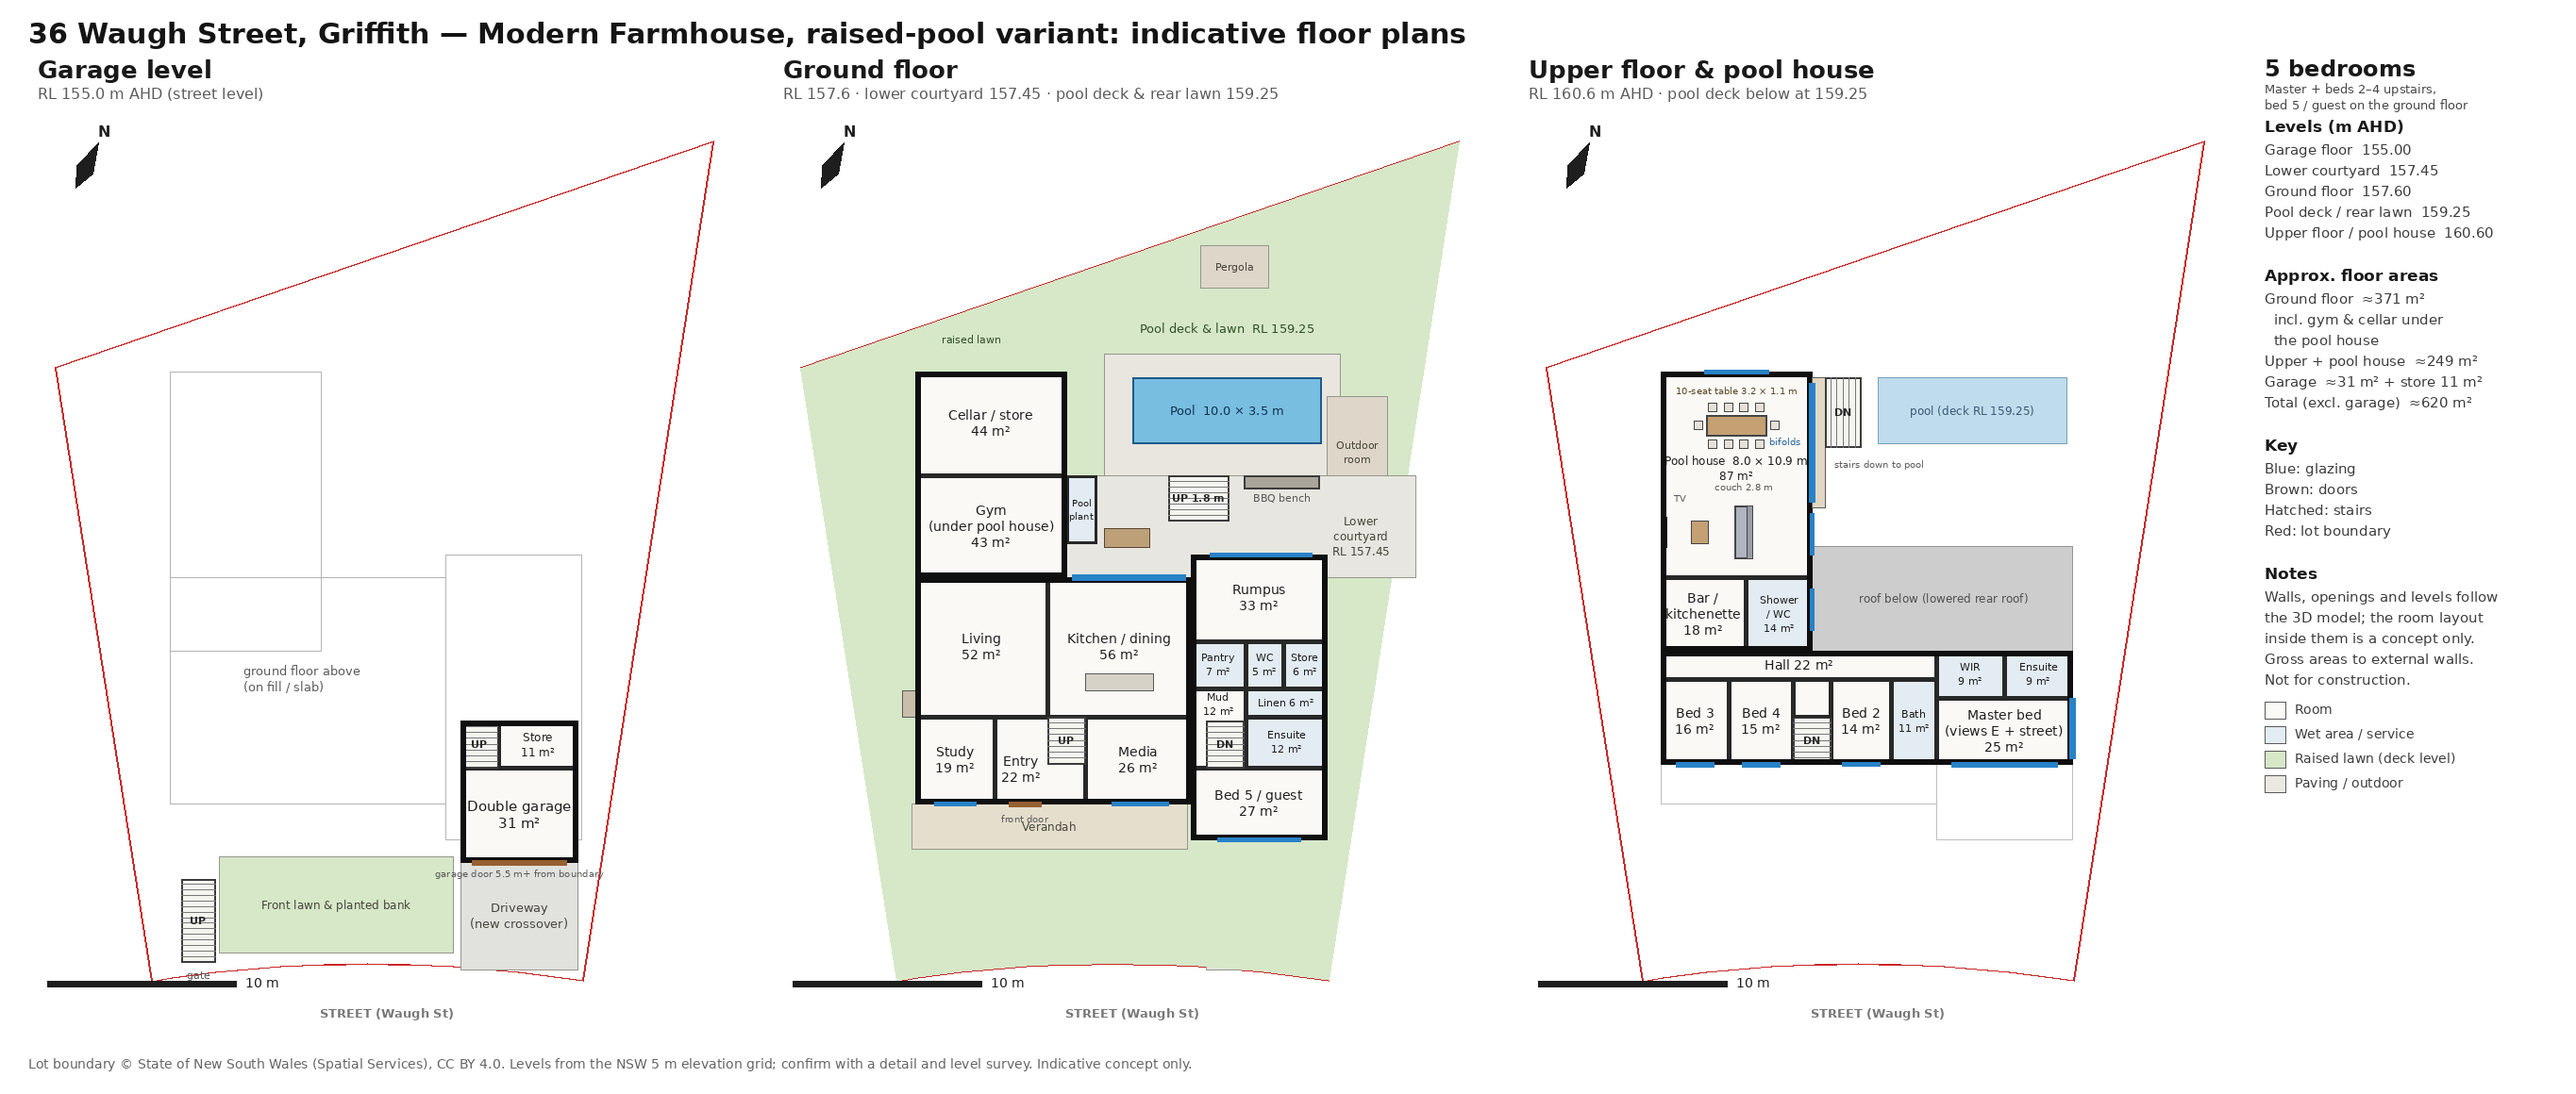
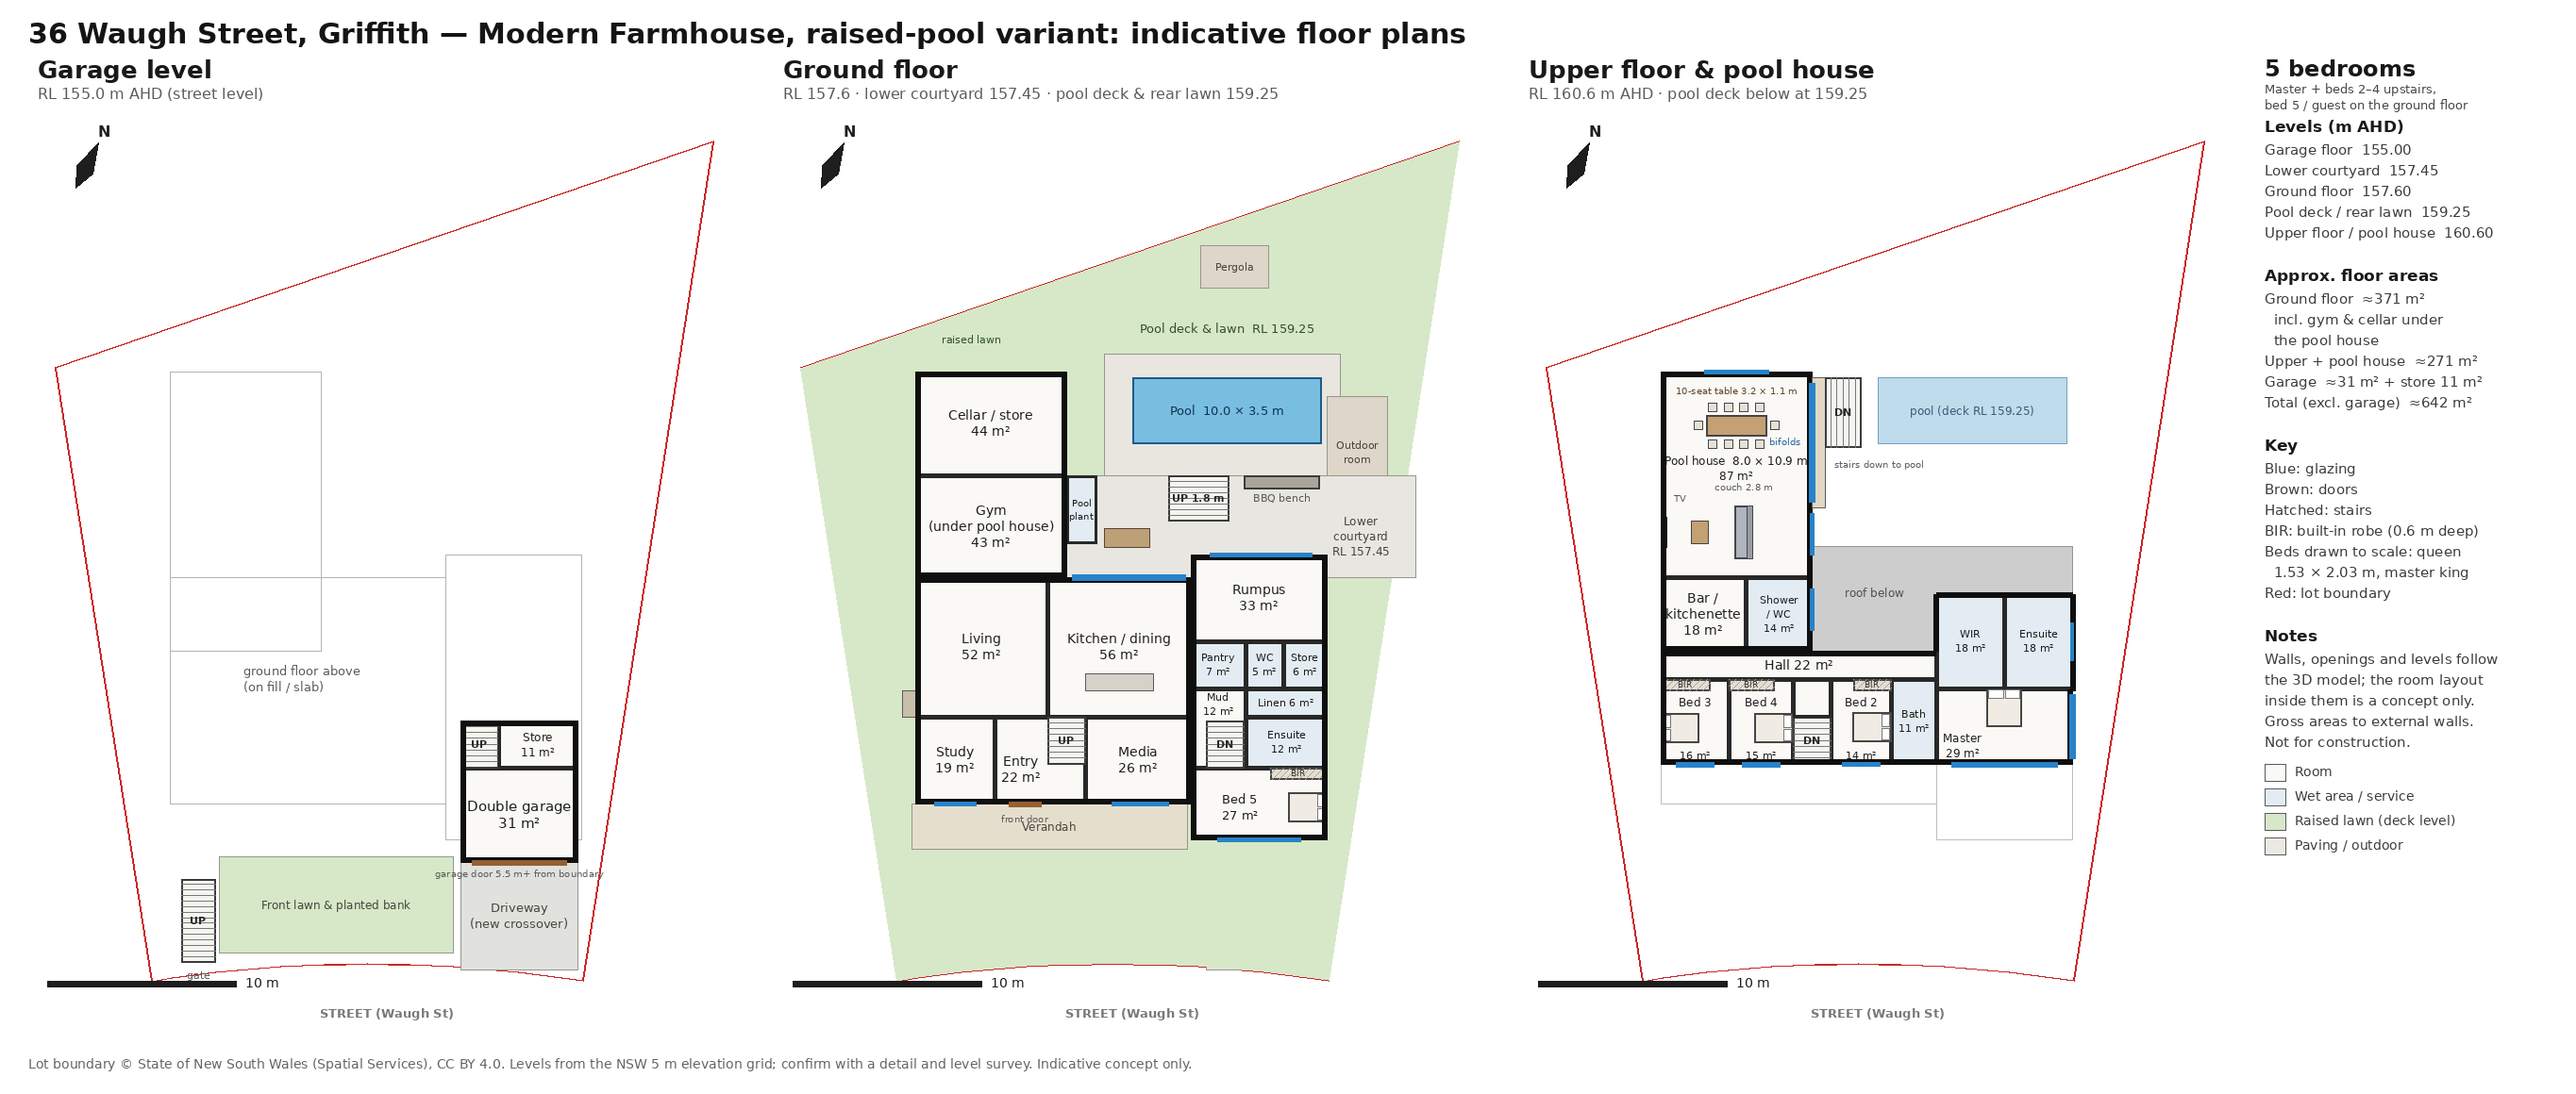
Floor plan: built-in robes and queen beds in bedrooms 2-5, master suite extended over the rear roof
Claude-Session: https://claude.ai/code/session_01GUPeuPKnNRhW4xExajB55M

diff --git a/scripts/designs/farmhouse_raised_plan.py b/scripts/designs/farmhouse_raised_plan.py
@@ -94,6 +94,31 @@ class Panel:
         self.d.text(self.p(u, n), txt, font=F(size), fill=fill, anchor="mm")
 
 
+def bed(pn, u0, u1, n0, n1, head):
+    """bed outline with pillows at the head end ('u0', 'u1', 'n0', 'n1')"""
+    pn.rect(u0, u1, n0, n1, (240, 236, 228), (70, 70, 70), 2)
+    if head in ("u0", "u1"):
+        a, b = (u0 + 0.08, u0 + 0.5) if head == "u0" else (u1 - 0.5, u1 - 0.08)
+        m = (n0 + n1) / 2
+        pn.rect(a, b, n0 + 0.1, m - 0.05, (255, 255, 255), (120, 120, 120), 1)
+        pn.rect(a, b, m + 0.05, n1 - 0.1, (255, 255, 255), (120, 120, 120), 1)
+    else:
+        a, b = (n0 + 0.08, n0 + 0.5) if head == "n0" else (n1 - 0.5, n1 - 0.08)
+        m = (u0 + u1) / 2
+        pn.rect(u0 + 0.1, m - 0.05, a, b, (255, 255, 255), (120, 120, 120), 1)
+        pn.rect(m + 0.05, u1 - 0.1, a, b, (255, 255, 255), (120, 120, 120), 1)
+
+
+def robe(pn, u0, u1, n0, n1):
+    """built-in robe: hatched 0.6 m deep joinery"""
+    pn.rect(u0, u1, n0, n1, (228, 222, 210), (70, 70, 70), 2)
+    a, b = pn.p(u0, n1), pn.p(u1, n0)
+    for x in range(int(a[0]), int(b[0]) + int(b[1] - a[1]), 7):
+        pn.d.line([(max(a[0], x - (b[1] - a[1])), min(b[1], a[1] + x - a[0])), (min(x, b[0]), a[1] + max(0, x - b[0]))],
+                  fill=(170, 160, 145), width=1)
+    pn.note((u0 + u1) / 2, (n0 + n1) / 2, "BIR", 9, (60, 60, 60))
+
+
 def main(out=ROOT / "designs" / "farmhouse_raised_floorplan.png"):
     W, H = 3 * PW + 4 * 30 + 330, PH + 200
     sheet = Image.new("RGB", (W, H), (255, 255, 255))
@@ -142,7 +167,7 @@ def main(out=ROOT / "designs" / "farmhouse_raised_floorplan.png"):
     p.outdoor("Verandah", 0.8, 15.4, 7.0, 9.4, (230, 222, 205), 12)
     rooms = [("Study", 1, 5.2, 9.4, 14.0), ("Entry", 5.2, 10.0, 9.4, 14.0, ROOM, True, 14, (6.6, 11.2)), ("Media", 10.0, 15.6, 9.4, 14.0),
              ("Living", 1, 8.0, 14.0, 21.4), ("Kitchen / dining", 8.0, 15.6, 14.0, 21.4),
-             ("Bed 5 / guest", 15.6, 22.8, 7.5, 11.3), ("Mud", 15.6, 18.5, 11.3, 15.5, ROOM, True, 11, (17.05, 14.65)),
+             ("Bed 5", 15.6, 22.8, 7.5, 11.3, ROOM, True, 13, (18.2, 9.2)), ("Mud", 15.6, 18.5, 11.3, 15.5, ROOM, True, 11, (17.05, 14.65)),
              ("Rumpus", 15.6, 22.8, 18.0, 22.6), ("Gym\n(under pool house)", 1, 9, 21.4, 26.8),
              ("Cellar / store", 1, 9, 26.8, 32.3)]
     for r in rooms:
@@ -151,6 +176,8 @@ def main(out=ROOT / "designs" / "farmhouse_raised_floorplan.png"):
                      ("WC", 18.5, 20.5, 15.5, 18.0), ("Store", 20.5, 22.8, 15.5, 18.0)):
         p.room(name, *r, fill=WET, size=11)
     p.room("Pool\nplant", 9.0, 10.6, 23.2, 26.8, fill=WET, area=False, size=10)
+    robe(p, 19.8, 22.8, 10.7, 11.3)                                              # bed 5: BIR on the ensuite wall
+    bed(p, 22.8 - 2.03, 22.8, 9.2 - 1.53/2, 9.2 + 1.53/2, "u1")                   # queen
     p.stair(8.0, 10.0, 11.5, 14.0, "n", "UP")
     p.stair(16.4, 18.4, 11.3, 13.8, "n", "DN")
     p.rect(10.0, 13.6, 15.4, 16.3, (215, 210, 200), (90, 90, 90), 1)   # island
@@ -169,19 +196,29 @@ def main(out=ROOT / "designs" / "farmhouse_raised_floorplan.png"):
     q = Panel(sheet, xs[2], oy, "Upper floor & pool house", f"RL {UPPER:.1f} m AHD · pool deck below at {DECK:.2f}")
     for r in ((1, 15.6, 9.4, 21.4), (15.6, 22.8, 7.5, 22.6)):
         q.rect(*r, None, (190, 190, 190), 1)
-    q.poly([(9, 17.5), (22.8, 17.5), (22.8, 23.05), (9, 23.05)], ROOFC)
-    q.note(16.0, 20.3, "roof below (lowered rear roof)", 12, (80, 80, 80))
+    q.poly([(9, 17.5), (15.6, 17.5), (15.6, 20.5), (22.8, 20.5), (22.8, 23.05), (9, 23.05)], ROOFC)
+    q.note(12.3, 20.6, "roof below", 12, (80, 80, 80))
     q.rect(12.5, 22.5, 28.5, 32.0, (190, 220, 235), (120, 160, 190), 1)
     q.note(17.5, 30.25, f"pool (deck RL {DECK:.2f})", 12, (60, 90, 120))
-    rooms = [("Bed 3", 1, 4.6, 11.5, 16.0), ("Bed 4", 4.6, 8.0, 11.5, 16.0), ("Bed 2", 10.0, 13.2, 11.5, 16.0),
-             ("Master bed\n(views E + street)", 15.6, 22.8, 11.5, 15.0), ("Hall", 1, 15.6, 16.0, 17.5),
+    rooms = [("Bed 3", 1, 4.6, 11.5, 16.0, ROOM, False, 12, (2.8, 14.8)), ("Bed 4", 4.6, 8.0, 11.5, 16.0, ROOM, False, 12, (6.3, 14.8)), ("Bed 2", 10.0, 13.2, 11.5, 16.0, ROOM, False, 12, (11.6, 14.8)),
+             ("Master", 15.6, 22.8, 11.5, 15.5, ROOM, True, 12, (17.0, 12.5)), ("Hall", 1, 15.6, 16.0, 17.5),
              ("Bar /\nkitchenette", 1, 5.5, 17.5, 21.4), ("Pool house  8.0 × 10.9 m", 1, 9, 21.4, 32.3, ROOM, True, 12, (5.0, 27.2))]
     for r in rooms:
         q.room(*r)
-    for name, *r in (("Bath", 13.2, 15.6, 11.5, 16.0), ("WIR", 15.6, 19.2, 15.0, 17.5),
-                     ("Ensuite", 19.2, 22.8, 15.0, 17.5), ("Shower\n/ WC", 5.5, 9.0, 17.5, 21.4)):
+    for name, *r in (("Bath", 13.2, 15.6, 11.5, 16.0), ("WIR", 15.6, 19.2, 15.5, 20.5),
+                     ("Ensuite", 19.2, 22.8, 15.5, 20.5), ("Shower\n/ WC", 5.5, 9.0, 17.5, 21.4)):
         q.room(name, *r, fill=WET, size=11)
     q.stair(8.0, 10.0, 11.5, 14.0, "n", "DN")
+    # bedrooms 2-4: built-in robes and a queen bed each (1.53 × 2.03 m); master: king (1.83 × 2.03 m) and WIR
+    for u, a in ((2.8, 16), (6.3, 15), (11.6, 14)):
+        q.note(u, 11.95, f"{a} m²", 11, (30, 30, 30))
+    robe(q, 1.0, 3.6, 15.4, 16.0)
+    bed(q, 1.0, 1.0 + 2.03, 13.4 - 1.53/2, 13.4 + 1.53/2, "u0")
+    robe(q, 4.6, 7.0, 15.4, 16.0)
+    bed(q, 8.0 - 2.03, 8.0, 13.4 - 1.53/2, 13.4 + 1.53/2, "u1")
+    robe(q, 11.2, 13.2, 15.4, 16.0)
+    bed(q, 13.2 - 2.03, 13.2, 13.45 - 1.53/2, 13.45 + 1.53/2, "u1")
+    bed(q, 19.2 - 0.915, 19.2 + 0.915, 15.5 - 2.03, 15.5, "n1")
     # pool house furniture at true size: 10-seat timber table, couch facing a TV on the west wall
     TIM, FAB, LN = (196, 160, 115), (175, 180, 190), (70, 70, 70)
     q.rect(3.4, 6.6, 28.9, 30.0, TIM, LN, 2)                                     # table 3.2 × 1.1 m
@@ -199,8 +236,11 @@ def main(out=ROOT / "designs" / "farmhouse_raised_floorplan.png"):
     q.note(2.0, 25.6, "TV", 10)
     q.note(5.4, 26.2, "couch 2.8 m", 10)
     q.rect(8.0, 10.0, 14.0, 16.0, ROOM, (40, 40, 40), 3)
-    for r in ((1, 22.8, 11.5, 17.5), (1, 9, 17.5, 32.3)):
+    for r in ((1, 22.8, 11.5, 17.5), (1, 9, 17.5, 32.3), (15.6, 22.8, 17.5, 20.5)):
         q.envelope(*r)
+    q.room("WIR", 15.6, 19.2, 15.5, 20.5, fill=WET, size=11)                       # suite runs through: redraw over the old wall line
+    q.room("Ensuite", 19.2, 22.8, 15.5, 20.5, fill=WET, size=11)
+    q.d.line([q.p(15.6, 17.5), q.p(15.6, 20.5), q.p(22.8, 20.5), q.p(22.8, 15.4)], fill=(15, 15, 15), width=6)
     q.rect(9.0, 9.7, 25.1, 32.0, (225, 215, 195), (90, 90, 90), 1)
     q.stair(9.7, 11.62, 28.3, 32.0, "u", "DN")
     q.note(12.6, 27.4, "stairs down to pool", 10)
@@ -208,7 +248,8 @@ def main(out=ROOT / "designs" / "farmhouse_raised_floorplan.png"):
     q.note(7.6, 28.6, "bifolds", 10, (40, 100, 160))
     q.glass_u(22.6, 24.8, 9.0)
     q.glass_u(18.6, 20.8, 9.0)
-    q.glass_u(11.8, 15.0, 22.8, 7)
+    q.glass_u(11.8, 15.2, 22.8, 7)
+    q.glass_u(17.0, 19.0, 22.8, 4)
     q.glass_n(1.8, 3.8, 11.5, 6)
     q.glass_n(5.3, 7.3, 11.5, 6)
     q.glass_n(16.4, 22.0, 11.5, 6)
@@ -234,7 +275,7 @@ def main(out=ROOT / "designs" / "farmhouse_raised_floorplan.png"):
     d.text((sx, oy - 52), "5 bedrooms", font=F(24, True), fill=(25, 25, 25))
     d.multiline_text((sx, oy - 24), "Master + beds 2–4 upstairs,\nbed 5 / guest on the ground floor", font=F(13), fill=(70, 70, 70))
     gf = 14.6 * 12.0 + 7.2 * 15.1 + 8 * 10.9
-    up = 21.8 * 6.0 + 8 * 14.8
+    up = 21.8 * 6.0 + 8 * 14.8 + 7.2 * 3.0
     y0 = oy + 14
     lines = [("Levels (m AHD)", True), (f"Garage floor  {GARAGE:.2f}", False), (f"Lower courtyard  {PADZ:.2f}", False),
              (f"Ground floor  {FFL:.2f}", False), (f"Pool deck / rear lawn  {DECK:.2f}", False),
@@ -242,7 +283,7 @@ def main(out=ROOT / "designs" / "farmhouse_raised_floorplan.png"):
              ("Approx. floor areas", True), (f"Ground floor  ≈{gf:.0f} m²", False), ("  incl. gym & cellar under", False),
              ("  the pool house", False), (f"Upper + pool house  ≈{up:.0f} m²", False), ("Garage  ≈31 m² + store 11 m²", False),
              (f"Total (excl. garage)  ≈{gf + up:.0f} m²", False), ("", False),
-             ("Key", True), ("Blue: glazing", False), ("Brown: doors", False), ("Hatched: stairs", False),
+             ("Key", True), ("Blue: glazing", False), ("Brown: doors", False), ("Hatched: stairs", False), ("BIR: built-in robe (0.6 m deep)", False), ("Beds drawn to scale: queen", False), ("  1.53 × 2.03 m, master king", False),
              ("Red: lot boundary", False), ("", False), ("Notes", True),
              ("Walls, openings and levels follow", False), ("the 3D model; the room layout", False),
              ("inside them is a concept only.", False), ("Gross areas to external walls.", False),
